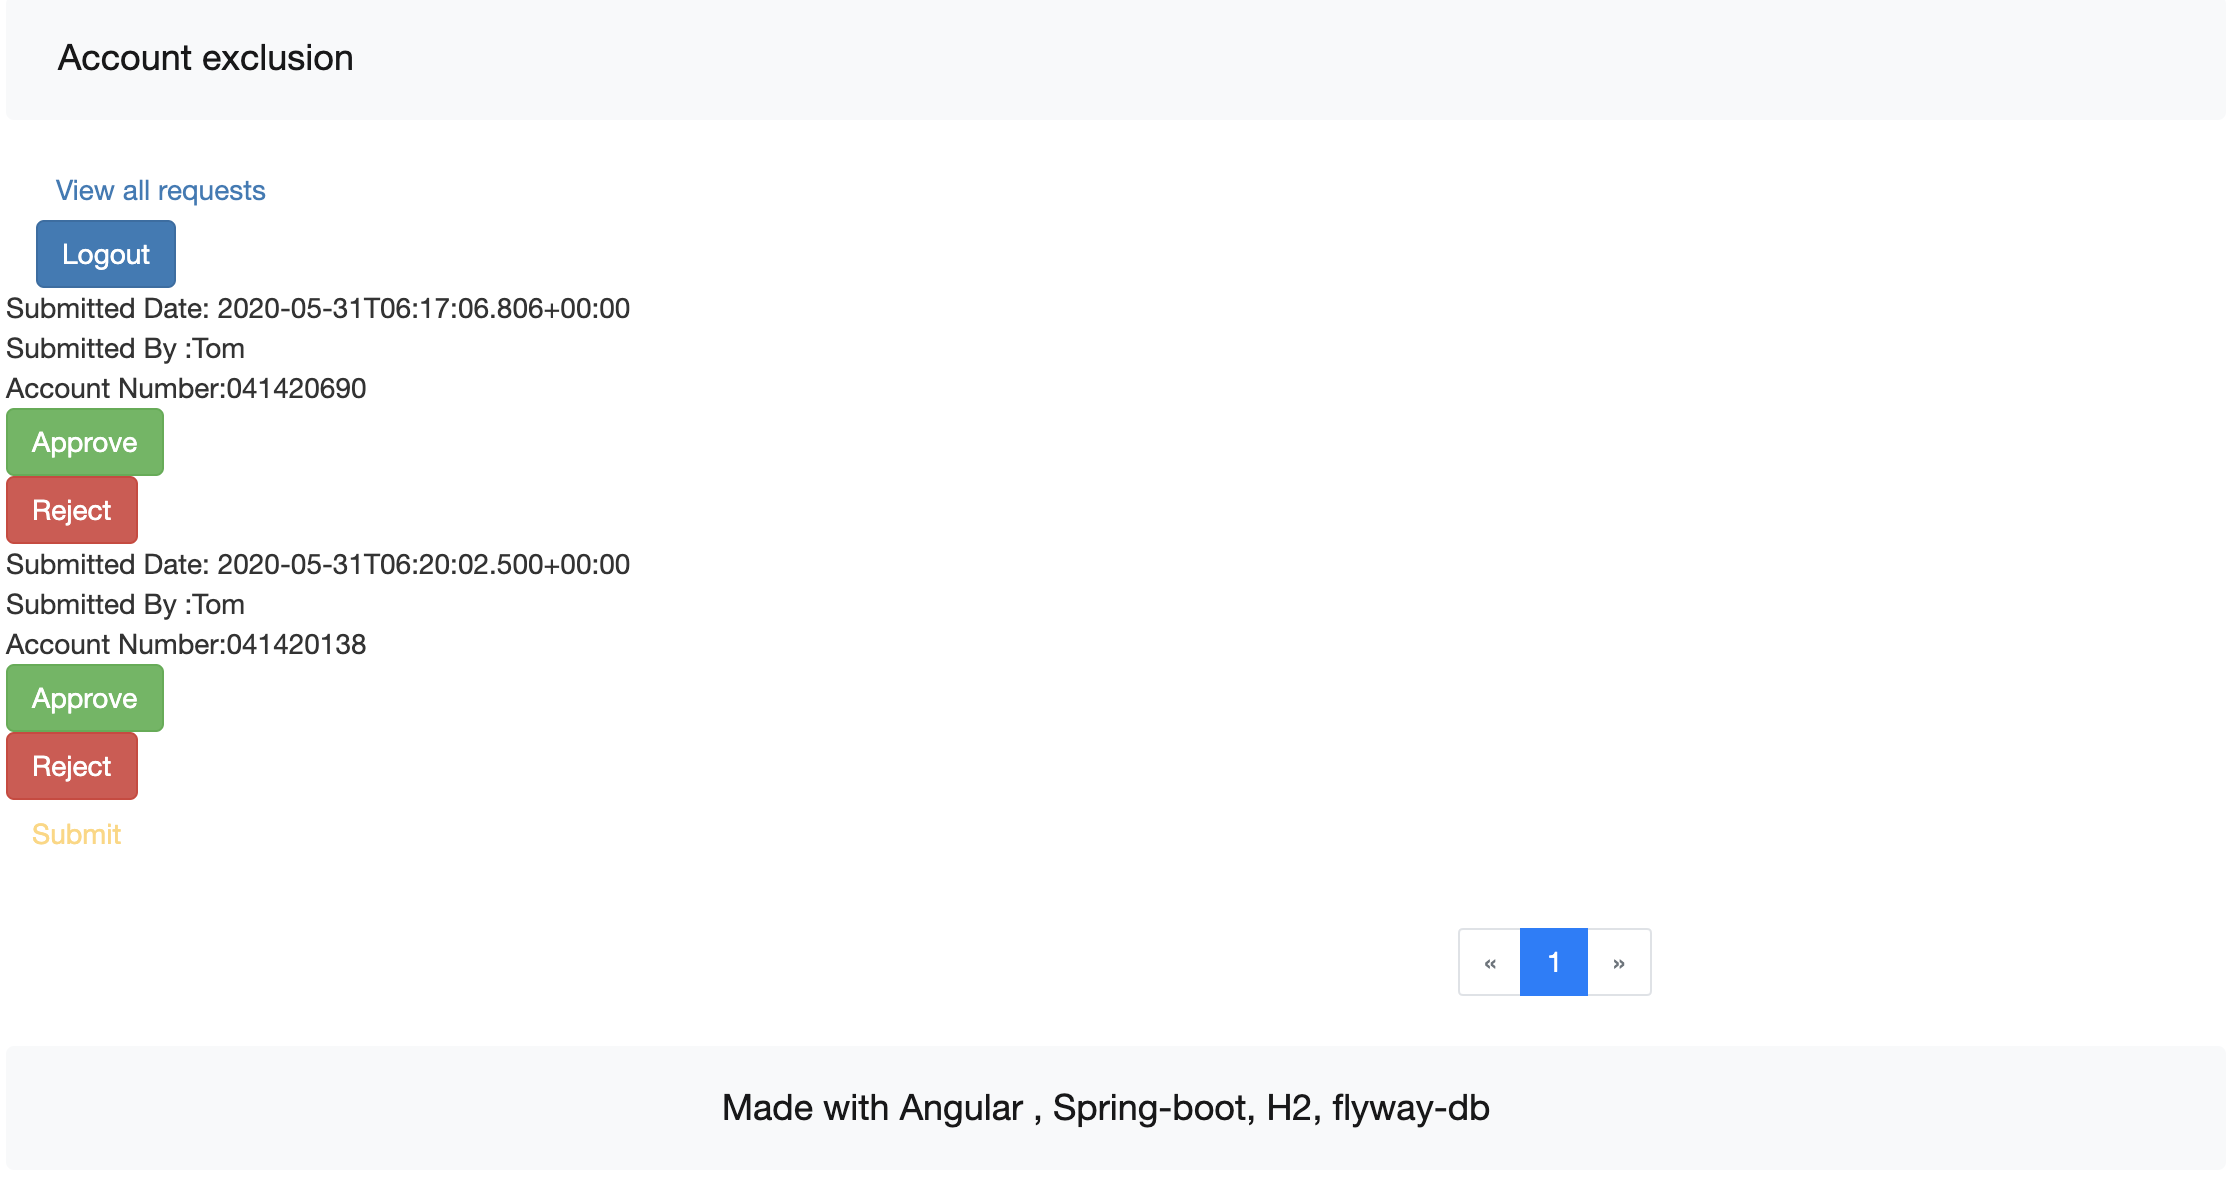
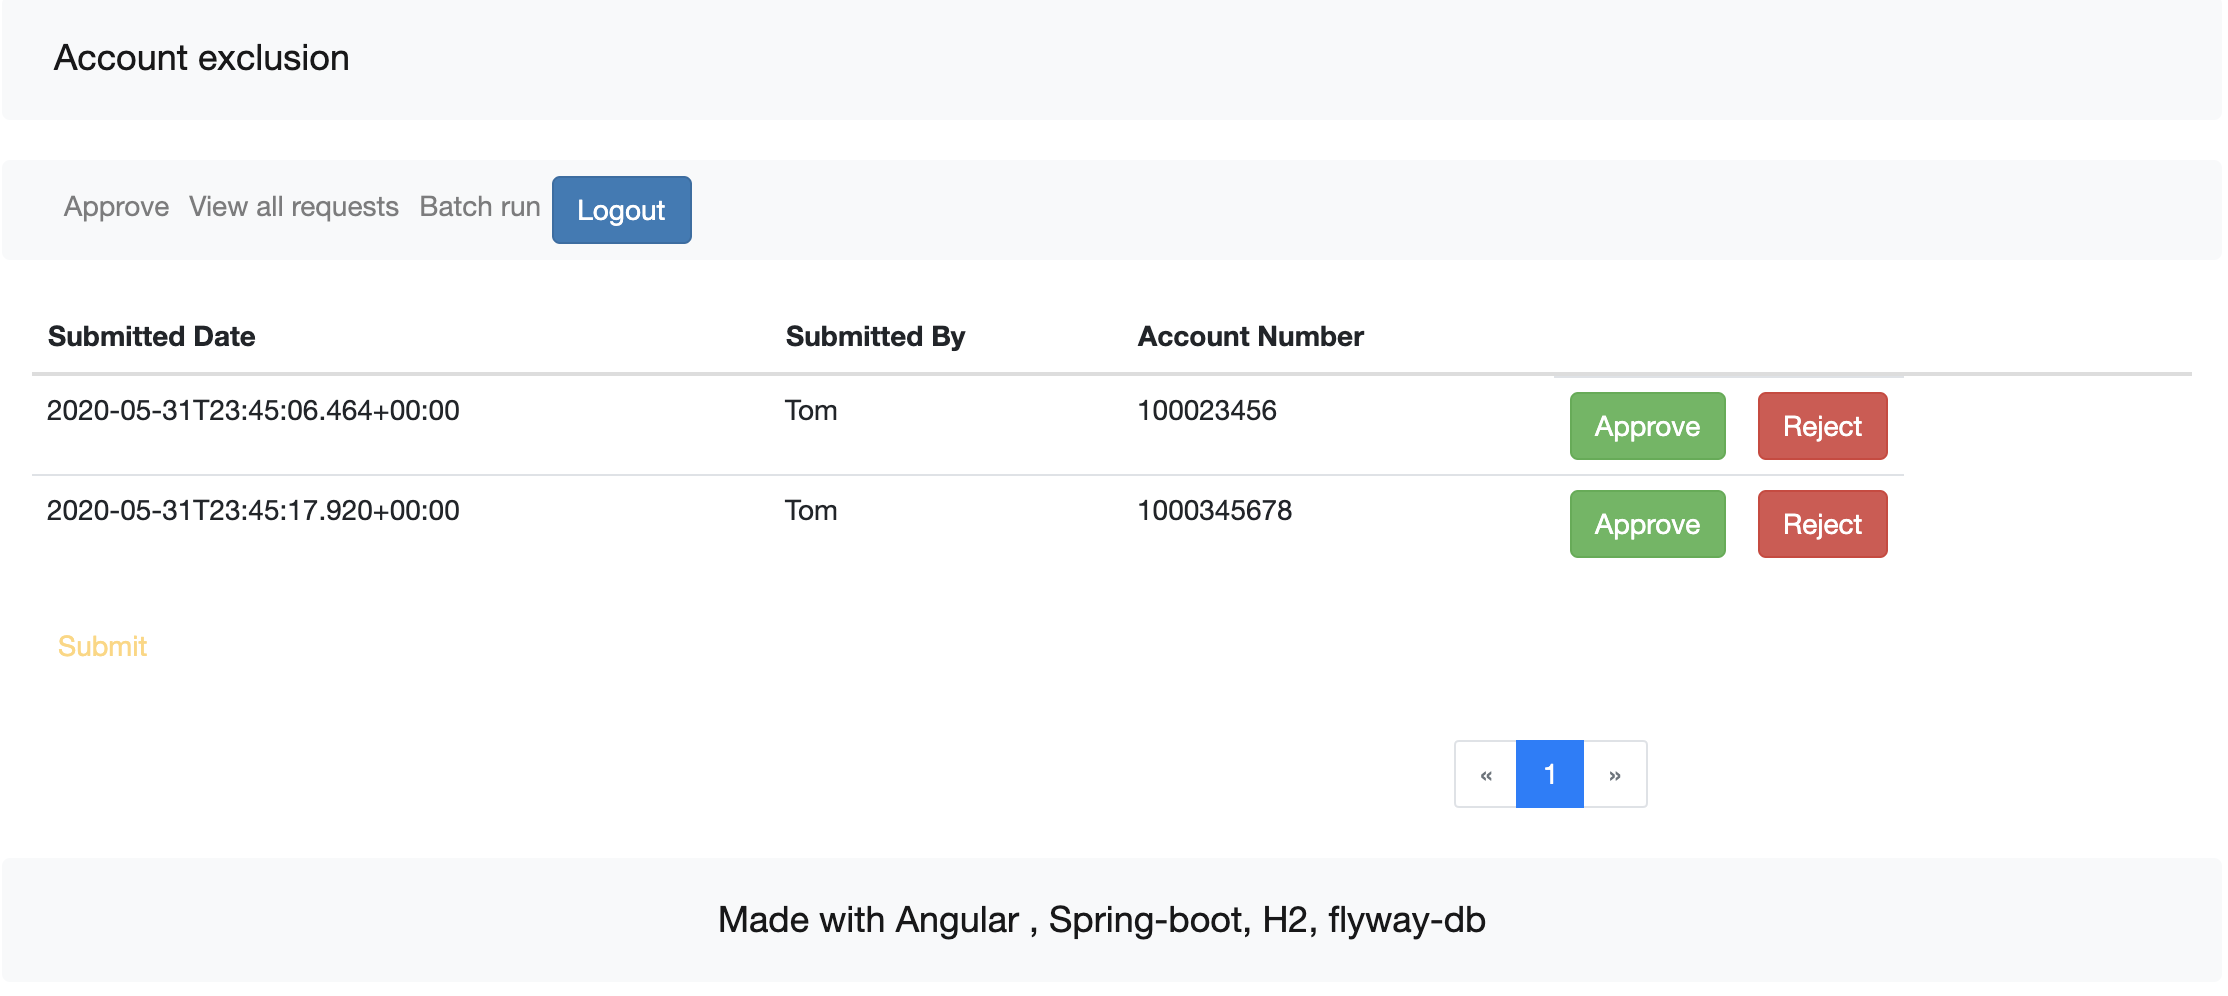
Documentation

diff --git a/README.md b/README.md
@@ -48,10 +48,7 @@ The above one will do the following things :
 #### John approves the first one and rejects second one
 ![John views all requests](./docs/UserRequests.png)
 #### John views requests status updated to 'APPROVED' and 'REJECTED'.
-#### This another way to show all the requests.
-![All requests](./docs/Rquests.png)
-APPROVED requests appear with green background.
-REJECTED requests appear with different background and so on.
+![John views status updated](./docs/StatusUpdated.png)
 ![New excluded account](./docs/ExcluedeAccounts.png)
 ##### Excluded account listed new account 0414020690
 #### Use case 6: During batch run - system will read  EXCLUSION_ACCOUNTS table and load the list of account , and remove the respective account from the file
